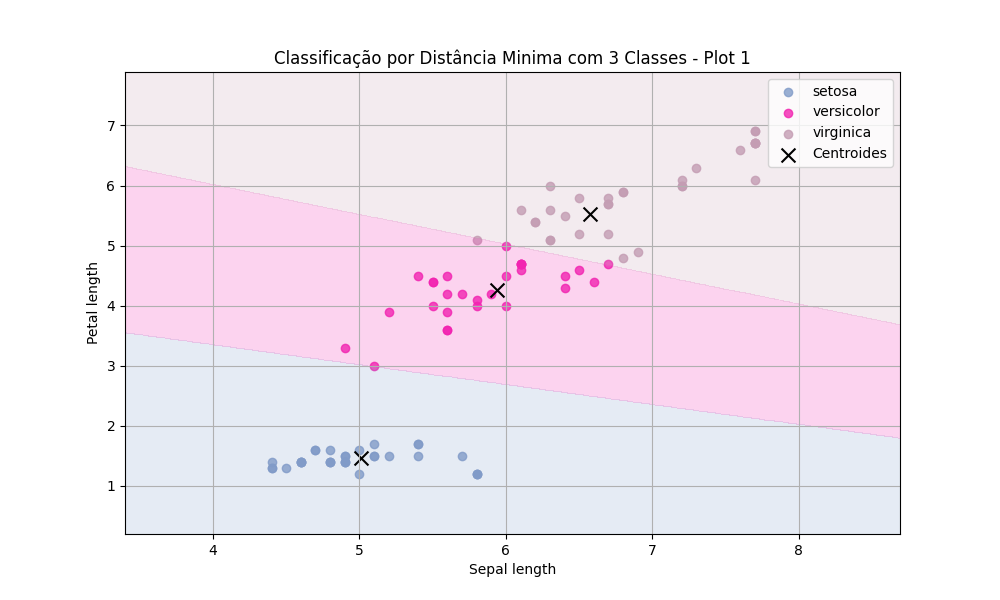
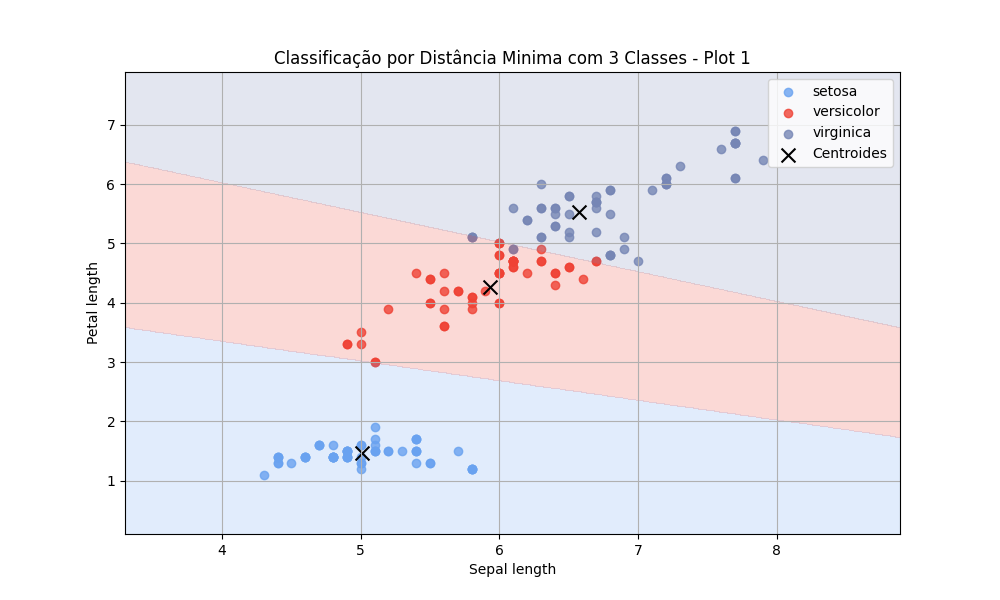
Perceptron com delta concluido

diff --git a/backend/app.py b/backend/app.py
@@ -1,7 +1,7 @@
 from flask import Flask, jsonify, request, send_from_directory
 from flask_cors import CORS
 # Importando diretamente do pacote controllers
-from controllers import MinimumDistanceClassifier, BayesClassifier, Perceptron, RandomColors, Capture, PartitionalCluster, QualityMetrics
+from controllers import MinimumDistanceClassifier, BayesClassifier, Perceptron, PerceptronDelta, RandomColors, Capture, PartitionalCluster, QualityMetrics
 import os
 import shutil
 from itertools import combinations
@@ -21,7 +21,7 @@ capture = Capture()
 colors = RandomColors()
 minimumDistanceClassifier = MinimumDistanceClassifier()
 perceptronsimples =  Perceptron()
-perceptrondelta = None
+perceptrondelta = PerceptronDelta()
 bayesClassifier = BayesClassifier()
 neuralnetworks = None
 partitionalcluster = PartitionalCluster()
@@ -126,12 +126,12 @@ def upload_file():
         # Converte para um valor de 0 a 1
         testCase = float(request.form['testCase']) / 100  
 
-        # Inicializa a instância da classe `Capture` e usar setData e shareData "perceptrondelta", , "neuralnetworks", "partitionalcluster","boltzmanmachine"
+        # Inicializa a instância da classe `Capture` e usar setData e shareData  , "neuralnetworks", "partitionalcluster","boltzmanmachine"
         capture.setData(file, feature, file_extension)
         capture.shareData(feature, testCase)
         colors.setData(len(capture.y_train.unique()))
 
-        models = ["minimumdistanceclassifier", "perceptronsimples",  "bayesclassifier","partitionalcluster"]
+        models = ["minimumdistanceclassifier", "perceptronsimples", "perceptrondelta", "bayesclassifier","partitionalcluster"]
         return jsonify({"message": "O arquivo foi passado corretamente", "data": len(capture.getData().to_dict(orient='records')),"test": len(capture.y_test), "models": models}), 200
     else:
         return jsonify({"message": "Invalid file type"}), 400
@@ -284,9 +284,9 @@ def get_perceptronSimples():
         plots = []
 
         # Gerar combinações de atributos para os gráficos
-        '''for idx, (col1, col2) in enumerate(combinations(columns, 2)):
-            plot_path = perceptronsimples.plot(colors, col1, col2, predictions, capture.getClassifications(), idx, folder)
-            plots.append(plot_path)'''
+        for idx, (col1, col2) in enumerate(combinations(columns, 2)):
+            plot_path = perceptronsimples.plot(colors.getData(), col1, col2, predictions, capture.getClassifications(), idx, folder)
+            plots.append(plot_path)
         
         # Resposta
         response_data = {
@@ -309,32 +309,56 @@ def get_perceptronSimples():
 @app.route('/api/perceptrondelta', methods=['GET'])
 
 def get_perceptronDelta():
-    global capture, colors
-    #Verifica se tem dados
+    global capture, perceptrondelta, colors
     if capture.data is not None:
-
-        folder = f'{directory}perceptrondelta'
+        # Treina o modelo
+        perceptrondelta.setData(capture.x_train, capture.y_train)
+        
+        # Predição
+        predictions = perceptrondelta.fit(capture.x_test)
+        # Transcreve para os nomes das classes
+        predictions["Prediction"] = capture.transcribe(predictions["Prediction"])
+        
+        # print("Prediction", predictions)
+        # Modelo treinado
+        model = perceptrondelta.getData()
+        for m in model:
+            if 'weights' in m and isinstance(m['weights'], np.ndarray):
+                m["weights"] = m["weights"].tolist()
+            if 'bias' in m and isinstance(m['bias'], np.ndarray):
+                m["bias"] = m["bias"].tolist()
+                
+        # print("Model", model)    
+        
+        # Organizar dados de treinamento para resposta
+        train = predictions.to_dict(orient='records')
+        # print("Train", train)
+        
+        # Criar diretório para plots
+        folder = f'{directory}/perceptrondelta'
         prepare_directory(folder)
 
-        precision = None#.pressure(capture.transcribe(capture.y_test), predictions, capture.feature)
-
-        #Possibilidade de itens para combinação
+        # Calcula precisão (confusão)
+        precision = perceptrondelta.pressure(capture.transcribe(capture.y_test), predictions, capture.feature)
+        
+        # Obter nomes das colunas
         columns = list(capture.x_test.columns)
         plots = []
 
-        #combinação dos atributos
-        #for idx, (col1, col2) in enumerate(combinations(columns, 2)):
-            #plot_path = .plot(colors.getData(), col1, col2, predictions, capture.getClassifications(), f'{idx}', folder)
-            #plots.append(plot_path)
-
+        # Gerar combinações de atributos para os gráficos
+        for idx, (col1, col2) in enumerate(combinations(columns, 2)):
+            plot_path = perceptrondelta.plot(colors.getData(), col1, col2, predictions, capture.getClassifications(), idx, folder)
+            plots.append(plot_path)
+        
+        # Resposta
         response_data = {
-            "message": "Modelo perceptron Delta criado",
-            "Name": "Classificador Perceptron Delta",
+            "message": "Modelo perceptron com Delta criado",
+            "Name": "Classificador Perceptron com Delta",
             "Model": model,
             "Train": train,
             "Precision": precision,
             "Plots": plots,
-            "Id" : "perceptrondelta"
+            "Id": "perceptrondelta"
         }
 
         return jsonify(response_data)

diff --git a/backend/controllers/PerceptronDelta.py b/backend/controllers/PerceptronDelta.py
@@ -7,7 +7,7 @@ from itertools import combinations
 
 app = Flask(__name__)
 
-class Perceptron:
+class PerceptronDelta:
     def __init__(self, learning_rate=0.01, epochs=1000):
         #Objeto com o modelo
         self.models = []
@@ -17,40 +17,54 @@ class Perceptron:
         self.epochs = epochs
         #Inicializa com None
         self.matrixConfusion = None
-        
+
     def activation_function(self, x):
-        return 1 if x >= 0 else 0
+        # Ativação da sigmoid
+        return 1 / (1 + np.exp(-x))
+
+    def activation_derivative(self, x):
+        # Funcao derivada de 1 / (1 + np.exp(-x))
+        sigmoid = self.activation_function(x)
+        return sigmoid * (1 - sigmoid)
 
     def predict(self, x):
         predictions = []
 
         for xi in x.values:
             class_scores = [np.dot(xi, model["weights"]) + model["bias"] for model in self.models]
+            #Pegar a classe com maior pontuacao
             predicted_class = self.classes[np.argmax(class_scores)]
             predictions.append(predicted_class)
 
-        x = x.copy()  # Cria uma cópia do DataFrame
+        x = x.copy()
         x['Prediction'] = predictions
         return x
 
     def train(self, x_train, y_train, class_label):
+        #Inicialização dos pesos e bias
         weights = np.zeros(x_train.shape[1])
         bias = 0
-        
+
         for _ in range(self.epochs):
             for xi, target in zip(x_train.values, y_train):
                 binary_target = 1 if target == class_label else 0
-                prediction = self.activation_function(np.dot(xi, weights) + bias)
-                error = binary_target - prediction
-                weights += self.learning_rate * error * xi
-                bias += self.learning_rate * error
-        
+
+                # Previsão e gradiente
+                net_input = np.dot(xi, weights) + bias
+                output = self.activation_function(net_input)
+                error = binary_target - output
+                gradient = error * self.activation_derivative(net_input)
+
+                # Atualização dos pesos e viés
+                weights += self.learning_rate * gradient * xi
+                bias += self.learning_rate * gradient
+
         return {"weights": weights, "bias": bias}
 
     def train_multiclass(self, x_train, y_train):
         self.models = []
         self.classes = np.unique(y_train)
-        
+
         for class_label in self.classes:
             model = self.train(x_train, y_train, class_label)
             self.models.append(model)
@@ -61,20 +75,19 @@ class Perceptron:
     def pressure(self, y_test, result, feature):
         if 'Prediction' not in result.columns:
             return "Coluna 'Prediction' não está presente em result"
-        
+
         self.matrixConfusion = confusion_matrix(y_test, result['Prediction'])
         classes = sorted(set(y_test) | set(result['Prediction']))
         df_matrixConfusion = pd.DataFrame(self.matrixConfusion, index=classes, columns=classes)
-        
+
         formatted_matrix = [
             {feature: row, **{col: int(df_matrixConfusion.at[row, col]) for col in classes}} for row in classes
         ]
-        
+
         return formatted_matrix
 
     def plot(self, colors, columnX, columnY, x_test, classifications, index, folder):
         result = x_test.copy()
-        # Use o backend "Agg" para evitar problemas de GUI
         plt.switch_backend('Agg')
 
         # Criar uma grade de pontos
@@ -86,7 +99,6 @@ class Perceptron:
         plt.figure(figsize=(10, 6))
 
         for idx, (key, tipo) in enumerate(classifications.items()):
-            print("model",idx, "tipo", tipo, "Key",key)
             plt.scatter(
                 result[result['Prediction'] == tipo][columnX],
                 result[result['Prediction'] == tipo][columnY],
@@ -100,17 +112,18 @@ class Perceptron:
         plt.ylabel(columnY)
         plt.legend()
         plt.grid(True)
-        
+
         image_path = f'{folder}/plot_{index}.png'
         plt.savefig(image_path)
         plt.close()
         return image_path
-    
+
     def getData(self):
         return self.models
-    
+
     def setData(self, x_train, y_train):
         self.train_multiclass(x_train, y_train)
 
     def getMatrizConfusion(self):
         return self.matrixConfusion
+

diff --git a/backend/controllers/__init__.py b/backend/controllers/__init__.py
@@ -1,6 +1,7 @@
 from .MinimumDistanceClassifier import MinimumDistanceClassifier
 from .BayesClassifier import BayesClassifier
 from .Perceptron import Perceptron
+from .PerceptronDelta import PerceptronDelta
 from .RandomColors import RandomColors
 from .PartitionalCluster import PartitionalCluster
 from .QualityMetrics import QualityMetrics
